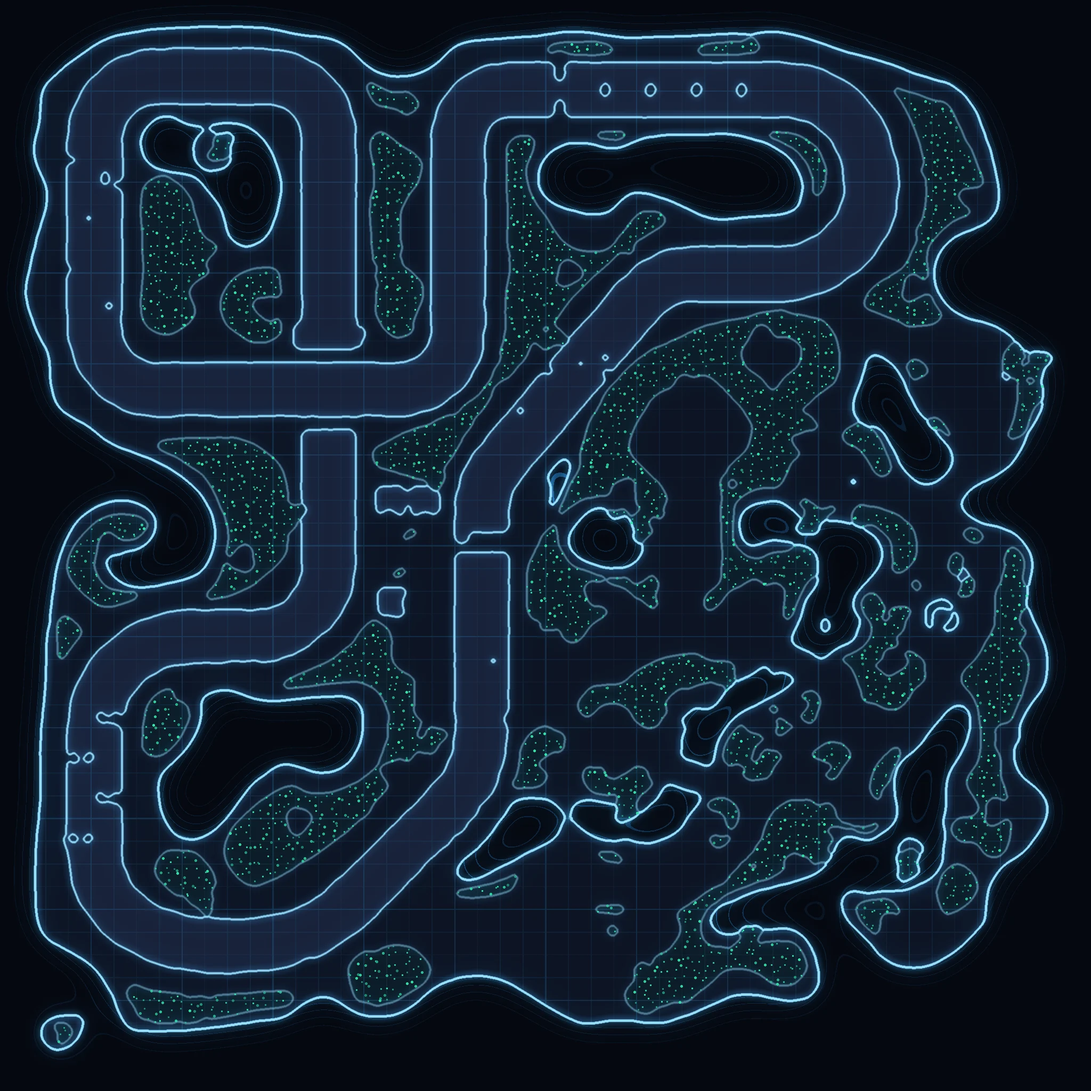
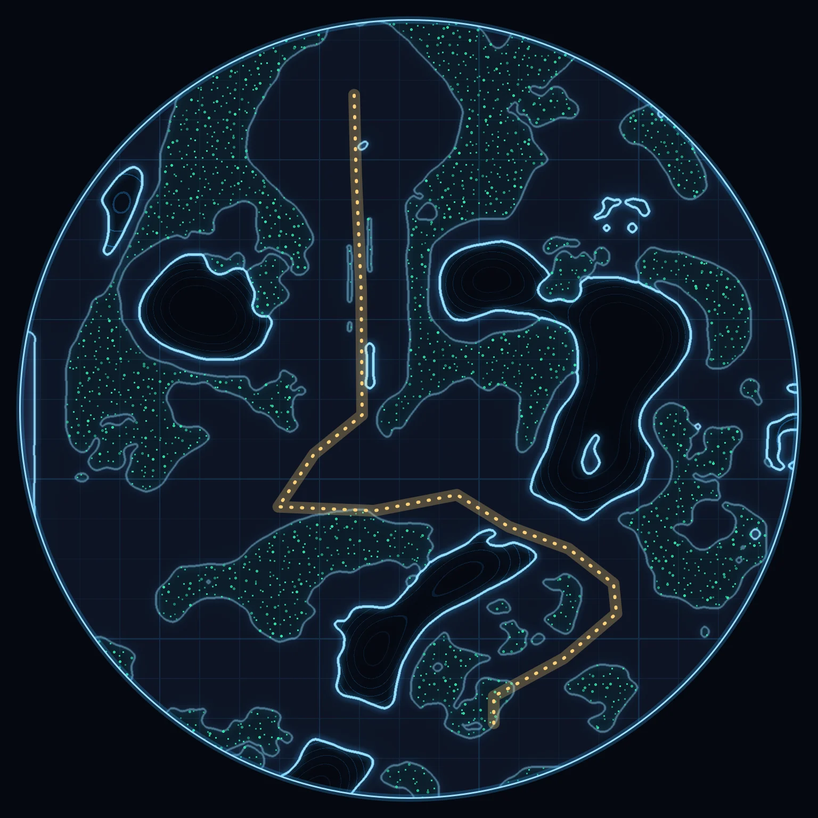
Fix the map, the stops bar on phones, and halve Safari's first load
Map. The panel still showed the whole island, with pins for areas that
were removed, and a pin could drop the rover outside the world. The
picture is now the square around the disc the world is cut to, with the
route drawn on it and one pin per stop.

Phones. Six stops did not fit across a phone and ran under the map
button. The bar now sits below the buttons, scrolls sideways and keeps
the current stop in view.

Safari. The step that compiles materials before the reveal drew into a
cube map, which built a second set of pipelines the world never uses.
It now draws one real frame with everything visible and nothing culled.
Cold load on an M4 laptop in Low Power Mode: the freeze before the
start screen went from 19.5 s to 8.9 s.

The menu's circuit tab is gone with the circuit.

diff --git a/sources/index.html b/sources/index.html
@@ -177,15 +177,6 @@
                         </div>
                     </button>
 
-                    <!-- Circuit -->
-                    <button class="js-navigation-item item" data-name="circuit">
-                        <div class="button-inner">
-                            <div class="icon-container">
-                                <img src="ui/wheel.svg" loading="lazy">
-                            </div>
-                        </div>
-                    </button>
-
                 </div>
 
                 <div class="container">
@@ -210,11 +201,6 @@
                         <!-- Achievements -->
                         <div class="js-preview preview achievements-preview">
                             <img class="background" src="ui/previews/achievements.webp" loading="lazy" draggable="false">
-                        </div>
-
-                        <!-- Circuit -->
-                        <div class="js-preview preview circuit-preview">
-                            <img class="background" src="ui/previews/circuit.webp" loading="lazy" draggable="false">
                         </div>
 
                     </div>
@@ -572,56 +558,6 @@
                                 
                                     <button class="js-button-reset button button-reset">
                                         Reset achievements
-                                    </button>
-                                    
-                                </div>
-                            </div>
-                        </div>
-
-                        <!-- Circuit -->
-                        <div class="js-content content circuit-content">
-                            <div class="content-inner">
-                                <div class="title">Circuit</div>
-                                
-                                <p class="offline-element text text-danger">
-                                    <img src="ui/warning.svg" loading="lazy" alt="" class="icon"> Server currently offline. Scores can't be saved.
-                                </p>
-
-                                <div class="js-leaderboard-container leaderboard-container has-no-score">
-                                    <div class="no-score">No score yet today</div>
-                                    <table class="js-leaderboard leaderboard online-element">
-                                        <tbody>
-                                        </tbody>
-                                    
-                                    </table>
-
-                                    <p class="online-element reset">
-                                        Resets in <span class="js-reset-time reset-time"></span>
-                                    </p>
-
-                                </div>
-
-                                <div class="js-racing-buttons racing-buttons horizontal-group">
-                                
-                                    <button class="js-button-restart button">
-                                        <svg class="icon icon-restart" width="20" height="24" viewBox="0 0 20 24" fill="none" xmlns="http://www.w3.org/2000/svg">
-                                            <path d="M17 5L10 10V6C5.58172 6 2 9.58172 2 14C2 18.4183 5.58172 22 10 22C14.4183 22 18 18.4183 18 14H20C20 19.5228 15.5228 24 10 24C4.47715 24 0 19.5228 0 14C0 8.47715 4.47715 4 10 4V0L17 5Z" fill="#ffffff"/>
-                                        </svg>
-                                        Restart
-                                    </button>
-                                
-                                    <button class="js-button-end button">
-                                        <svg class="icon icon-flag" class="none" width="23" height="20" viewBox="0 0 23 20" fill="none" xmlns="http://www.w3.org/2000/svg">
-                                            <path d="M0.551758 1.7258C6.55166 -2.27398 11.0001 3.40978 19 1.40953L23 13.4096C15.5952 15.2611 11.6175 10.2589 6.30859 12.6762L8.44824 19.0941L6.55176 19.7269L0.551758 1.7258ZM5.26562 2.00328C4.68209 2.01685 4.07959 2.11674 3.42871 2.37242L6.16309 10.5746C7.17704 10.2014 8.1765 10.0274 9.17188 10.0043C10.8337 9.96566 12.395 10.3531 13.7764 10.7299C15.9783 11.3304 17.9741 11.9562 20.3564 11.806L17.6533 3.69664C13.9491 4.17921 11.0237 3.21654 8.72363 2.58922C7.3553 2.21603 6.29108 1.97952 5.26562 2.00328Z" fill="#ffffff"/>
-                                        </svg>
-                                        End
-                                    </button>
-                                
-                                    <button class="js-button-controls button">
-                                        <svg class="icon icon-controller" width="34" height="22" viewBox="0 0 34 22" fill="none" xmlns="http://www.w3.org/2000/svg">
-                                            <path d="M24.9901 0C27.2187 0 29.1912 1.98468 30.0877 3.96582C30.9844 5.94795 33.3919 15.0915 33.9373 17.4551C34.4824 19.8185 30.7556 22.1815 26.5741 22.1816C24.3923 19.6363 22.2847 16.7432 19.8465 15H14.2235C11.7707 16.7432 9.6507 19.6363 7.4559 22.1816C3.24927 22.1816 -0.494655 19.8185 0.053558 17.4551C0.602246 15.0917 3.02451 5.94816 3.9266 3.96582C4.82847 1.98469 6.81257 0.000114396 9.05453 0H24.9901ZM8.85532 2.01074C8.38039 2.06286 7.8363 2.30078 7.27133 2.77344C6.62835 3.31144 6.08313 4.05636 5.74692 4.79492C5.3762 5.61 4.5895 8.20768 3.78403 11.1035C3.19639 13.2162 2.63705 15.345 2.28207 16.7588L2.0018 17.9072C1.9553 18.1081 1.96994 18.5603 2.69711 19.124C3.29365 19.5864 5.2646 20.0018 6.56332 20.1357C6.88401 19.7496 7.20912 19.3522 7.54086 18.9434C8.08227 18.2761 8.64694 17.5798 9.22153 16.9062C10.36 15.5716 11.6783 14.3885 13.1112 13.3701L13.6307 13H20.534L21.0555 13.373C22.4808 14.3921 23.7002 15.5757 24.8319 16.9102C25.4031 17.5837 25.9636 18.2811 26.5018 18.9482C26.83 19.3551 27.1523 19.7504 27.4696 20.1348C28.7512 20 30.7095 19.5872 31.2987 19.1279C32.0175 18.5673 32.0359 18.1133 31.9881 17.9053L31.7098 16.7559C31.3569 15.3419 30.8007 13.2132 30.2166 11.1006C29.4159 8.20421 28.6341 5.60492 28.2655 4.79004C27.9309 4.05089 27.3888 3.30754 26.7508 2.77051C26.1096 2.23085 25.4989 2 24.9901 2H9.05453L8.85532 2.01074ZM12.0096 7H14.0096V9H12.0096V11H10.0096V9H8.00961V7H10.0096V5H12.0096V7ZM24.0096 11H22.0096V9H24.0096V11ZM22.0096 9H20.0096V7H22.0096V9ZM26.0096 9H24.0096V7H26.0096V9ZM24.0096 7H22.0096V5H24.0096V7Z" fill="#ffffff"/>
-                                        </svg>
-                                        Controls
                                     </button>
                                     
                                 </div>

diff --git a/sources/Game/Map.js b/sources/Game/Map.js
@@ -1,5 +1,6 @@
 import { clamp } from 'three/src/math/MathUtils.js'
 import { Game } from './Game.js'
+import { disc, mapHalf, stops } from '../data/route.js'
 
 export class Map
 {
@@ -40,24 +41,12 @@ export class Map
     setLocations()
     {
         this.locations = {}
-        this.locations.items = [
-            { name: 'Achievements', respawnName: 'achievements', offset: { x: 0, y: -0.01 } },
-            { name: 'Altar', respawnName: 'altar', offset: { x: 0, y: -0.05 } },
-            { name: 'About', respawnName: 'behindTheScene', offset: { x: 0.01, y: 0 } },
-            { name: 'Bowling', respawnName: 'bowling', offset: { x: -0.08, y: 0.03 } },
-            { name: 'Timeline', respawnName: 'career', offset: { x: 0, y: -0.06 } },
-            { name: 'Circuit', respawnName: 'circuit', offset: { x: -0.08, y: -0.05 } },
-            { name: 'Cookie', respawnName: 'cookie', offset: { x: -0.02, y: -0.01 } },
-            { name: 'Research', respawnName: 'lab', offset: { x: -0.03, y: 0 } },
-            { name: 'Start', respawnName: 'landing', offset: { x: 0.02, y: 0 } },
-            { name: 'Projects', respawnName: 'projects', offset: { x: 0, y: -0.02 } },
-            { name: 'Contact', respawnName: 'social', offset: { x: -0.01, y: -0.04 } },
-        ]
+        // One pin per stop on the route
+        this.locations.items = stops.map(stop => ({ name: stop.label, respawnName: stop.respawn, position: stop, offset: { x: 0, y: 0 } }))
 
         for(const item of this.locations.items)
         {
-            const respawn = this.game.respawns.getByName(item.respawnName)
-            const mapPosition = this.worldToMap(respawn.position)
+            const mapPosition = this.worldToMap({ x: item.position.x, z: item.position.z })
 
             // HTML
             const html = /* html */`
@@ -149,11 +138,9 @@ export class Map
         let x = coordinates.x
         let y = typeof coordinates.z !== 'undefined' ? coordinates.z : coordinates.y
 
-        x /= this.game.terrain.size
-        y /= this.game.terrain.size
-
-        x += 0.5
-        y += 0.5
+        // The picture covers the square around the disc
+        x = (x - (disc.x - mapHalf)) / (mapHalf * 2)
+        y = (y - (disc.z - mapHalf)) / (mapHalf * 2)
 
         x = clamp(x, 0, 1)
         y = clamp(y, 0, 1)

diff --git a/sources/Game/PreRenderer.js b/sources/Game/PreRenderer.js
@@ -1,35 +1,49 @@
-import * as THREE from 'three/webgpu'
 import { Game } from './Game.js'
-import CubeRenderTarget from 'three/src/renderers/common/CubeRenderTarget.js'
 
+/**
+ * Compiles every material before the world is revealed, so nothing freezes
+ * later when it first comes into view.
+ *
+ * It draws one real frame, through the same passes the world is drawn with,
+ * with everything visible and nothing culled. Drawing into some other target
+ * (a cube map, say) would compile a second set of pipelines that the world
+ * never uses, which doubles the wait in Safari.
+ */
 export class PreRenderer
 {
     static render()
     {
         const game = Game.getInstance()
 
-        // Setup
-        const renderTarget = new CubeRenderTarget(32)
-        
-        const cubeCamera = new THREE.CubeCamera(1, 100000, renderTarget)
-        game.scene.add(cubeCamera)
+        const hidden = []
+        const culled = []
 
-        // Make all visible
-        const invisibles = []
         game.scene.traverse((child) =>
         {
             if(child.visible === false && typeof child.userData.preventPreRender === 'undefined')
             {
                 child.visible = true
-                invisibles.push(child)
+                hidden.push(child)
+            }
+
+            if(child.frustumCulled)
+            {
+                child.frustumCulled = false
+                culled.push(child)
             }
         })
 
-        // Force render
-        cubeCamera.update(game.rendering.renderer, game.scene)
+        try
+        {
+            game.rendering.postProcessing.render()
+        }
+        finally
+        {
+            for(const child of hidden)
+                child.visible = false
 
-        // Hide back
-        for(const child of invisibles)
-            child.visible = false
+            for(const child of culled)
+                child.frustumCulled = true
+        }
     }
 }

diff --git a/sources/Game/Guide.js b/sources/Game/Guide.js
@@ -69,7 +69,14 @@ export class Guide
         {
             this.current = closest
             for(const item of this.items)
-                item.classList.toggle('is-active', item.dataset.stop === closest.id)
+            {
+                const active = item.dataset.stop === closest.id
+                item.classList.toggle('is-active', active)
+
+                // Keep the current stop in view where the bar scrolls (phones)
+                if(active && this.element.scrollWidth > this.element.clientWidth)
+                    this.element.scrollTo({ left: item.offsetLeft - (this.element.clientWidth - item.offsetWidth) / 2, behavior: 'smooth' })
+            }
         }
     }
 }

diff --git a/sources/data/route.js b/sources/data/route.js
@@ -9,6 +9,9 @@
  */
 export const disc = { x: 31, z: 9, radius: 39 }
 
+// The map panel shows the square around the disc (scripts/build-map.mjs draws it)
+export const mapHalf = disc.radius + 2
+
 // In visiting order. `respawn` is the name of the place the rover is put down.
 export const stops = [
     { id: 'start', label: 'Start', respawn: 'landing', x: 39.5, z: 37.8, accent: '#ffffff' },
